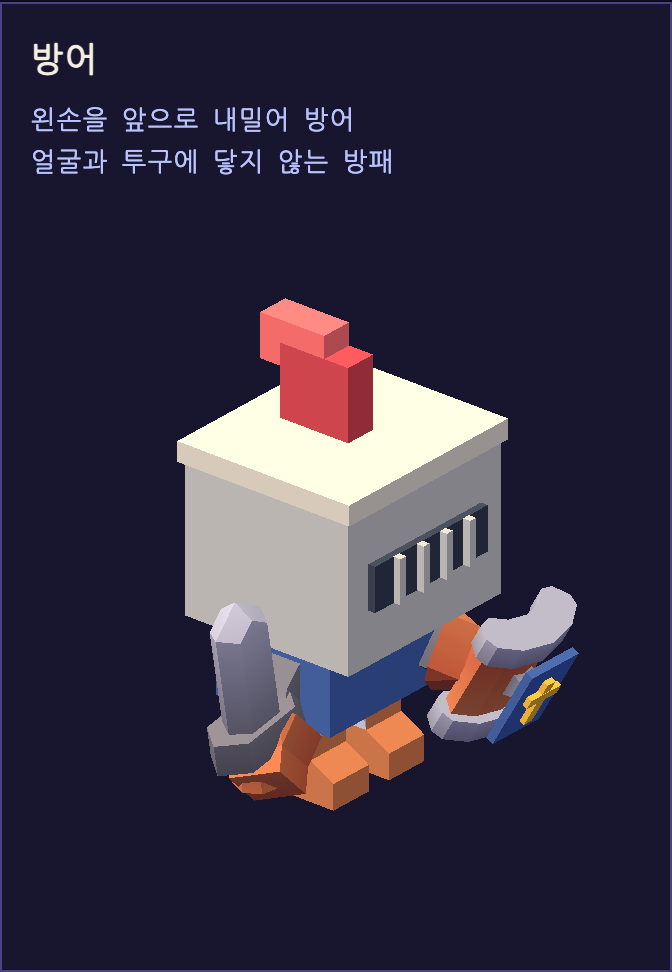
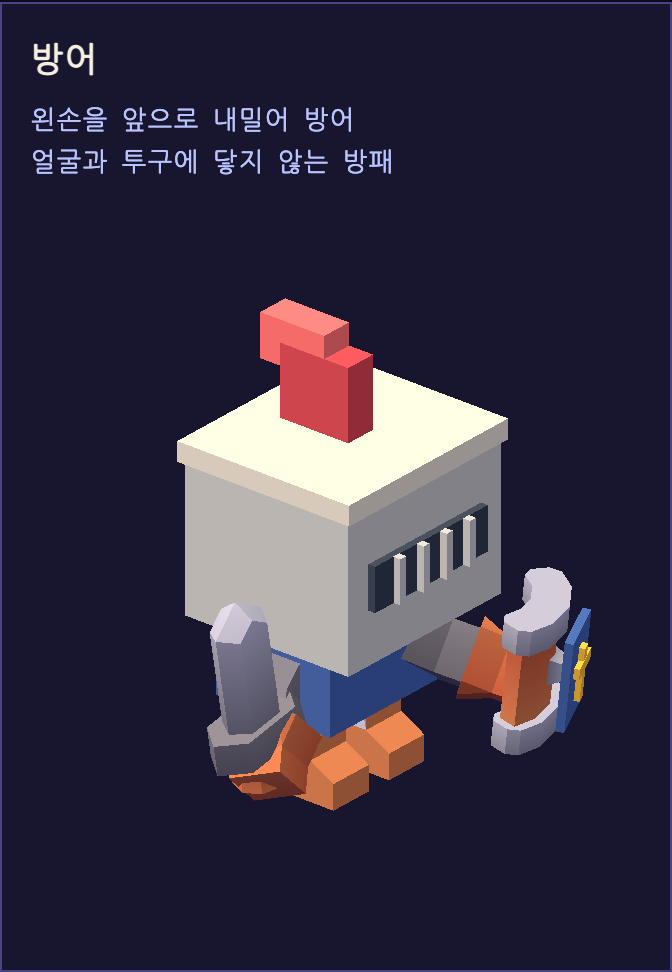
Keep the guard shield upright while reaching forward clear of the helmet

Changed region(s): [[0.5938, 0.5864, 0.875, 0.8025]]

diff --git a/tests/character-review.html b/tests/character-review.html
@@ -22,7 +22,7 @@ import * as THREE from 'three';
 import {loadAssets,hero,crewCharacter} from '../src/models.js';
 import {CREW} from '../src/data.js';
 await loadAssets();
-const heroes=[hero(),hero(),hero()];
+const heroes=[hero(),hero(),hero()],guardHome=heroes[2].bones['arm-left'].position.clone();
 const reviewTime=new URLSearchParams(location.search).get('time');if(reviewTime!==null)heroes[2].mixer.update(Number(reviewTime)-heroes[2].mixer.time);
 heroes[1].setEquipmentPose(1,0);heroes[2].setEquipmentPose(0,1);
 const coordinator=crewCharacter(CREW.find(p=>p.behavior==='encourage'),6);coordinator.setEncouragementPose(.3,true);
@@ -65,9 +65,10 @@ for(const yaw of [0,Math.PI/2,-Math.PI/2])for(let frame=0;frame<=60;frame++){
   }
  });
  const facing=new THREE.Vector3(0,0,1).applyQuaternion(a.model.getWorldQuaternion(new THREE.Quaternion())),ray=new THREE.Raycaster(a.visor.getWorldPosition(new THREE.Vector3()),facing);
- guardSamples.push({amount,time:a.mixer.time,firstHit,visor:visor.toArray(),hand:a.model.worldToLocal(a.shield.getWorldPosition(new THREE.Vector3())).toArray(),helmetIntersections:intersections,blocksFace:ray.intersectObject(a.shield,true).length>0,forward:new THREE.Vector3(0,0,1).applyQuaternion(a.shield.getWorldQuaternion(new THREE.Quaternion())).dot(facing),armScale:a.bones['arm-left'].scale.toArray()});
+ guardSamples.push({upright:new THREE.Vector3(0,1,0).applyQuaternion(a.shield.getWorldQuaternion(new THREE.Quaternion())).dot(new THREE.Vector3(0,1,0).applyQuaternion(a.model.getWorldQuaternion(new THREE.Quaternion()))),amount,time:a.mixer.time,firstHit,visor:visor.toArray(),hand:a.model.worldToLocal(a.shield.getWorldPosition(new THREE.Vector3())).toArray(),helmetIntersections:intersections,blocksFace:ray.intersectObject(a.shield,true).length>0,forward:new THREE.Vector3(0,0,1).applyQuaternion(a.shield.getWorldQuaternion(new THREE.Quaternion())).dot(facing),armScale:a.bones['arm-left'].scale.toArray()});
 }
-window.__CHARACTER_REVIEW__={reports,anchors,frames,mouthSamples,guardSamples,handAnchor,armScale,headVisible:animated.model.getObjectByName('head-mesh').visible,swordParent:animated.sword.parent.name,shieldParent:animated.shield.parent.name,female:coordinator.filename,phoneParent:coordinator.phone.parent.name,waves:coordinator.waves.visible};
+heroes[2].setEquipmentPose();const guardReset=heroes[2].bones['arm-left'].position.distanceTo(guardHome);
+window.__CHARACTER_REVIEW__={guardReset,reports,anchors,frames,mouthSamples,guardSamples,handAnchor,armScale,headVisible:animated.model.getObjectByName('head-mesh').visible,swordParent:animated.sword.parent.name,shieldParent:animated.shield.parent.name,female:coordinator.filename,phoneParent:coordinator.phone.parent.name,waves:coordinator.waves.visible};
 await document.fonts.ready;document.documentElement.dataset.reviewReady='true';
 </script>
 </html>

diff --git a/src/models.js b/src/models.js
@@ -204,7 +204,7 @@ export function hero() {
   const shield=prop('shield-rectangle',{h:.28,w:.25});shieldPivot.add(shield);shield.position.set(0,-.105,.055);
   box(shieldPivot,.14,.20,.018,'#4168bd',0,.035,.124);
   box(shieldPivot,.024,.12,.012,'#f5c542',0,.035,.139);box(shieldPivot,.09,.024,.012,'#f5c542',0,.055,.140);
-  const rest={right:bones['arm-right'].quaternion.clone(),left:bones['arm-left'].quaternion.clone()};
+  const rest={right:bones['arm-right'].quaternion.clone(),left:bones['arm-left'].quaternion.clone(),leftPosition:bones['arm-left'].position.clone()};
   // Keep the shield on the left side. The left hand reaches forward from the
   // shoulder; it never crosses to the visor's centerline.
   const guardAim=group(bones.torso,.30,-.025,.30),guardDirection=shieldPivot.position.clone().applyQuaternion(rest.left).normalize();
@@ -212,7 +212,9 @@ export function hero() {
   actor.shieldImpact=group(shieldPivot,0,.035,.15);actor.visor=group(head,0,.19,.252);
   actor.setEquipmentPose=(swing=0,guard=0)=>{
     bones['arm-right'].quaternion.copy(rest.right);bones['arm-right'].rotateY(.9*swing);bones['arm-right'].rotateZ(-.55*swing);
-    const arm=bones['arm-left'];arm.quaternion.copy(rest.left);
+    const arm=bones['arm-left'];arm.quaternion.copy(rest.left);arm.position.copy(rest.leftPosition);
+    // Protract the shoulder within the breastplate instead of pitching the shield down.
+    arm.position.z+=.075*guard;
     if(guard>0){
       actor.root.updateMatrixWorld(true);guardAim.getWorldPosition(guardTarget);arm.parent.worldToLocal(guardTarget).sub(arm.position).normalize();
       // Reach under the helmet rim before settling into the forward guard.
@@ -221,8 +223,8 @@ export function hero() {
     }
     // Aim the blade into the invasion lane while retaining the grip on the hand.
     faceInModelSpace(actor,swordPivot,1.65*swing,0,.18);
-    // Tip the upper rim away early, including while the idle torso/head sway.
-    faceInModelSpace(actor,shieldPivot,.52*Math.min(1,guard*2.5));
+    // Keep the shield upright; angle its inner edge forward to clear the helmet.
+    faceInModelSpace(actor,shieldPivot,.12*Math.min(1,guard*2.5),.45*guard);
   };
   actor.sword=swordPivot;actor.shield=shieldPivot;return actor;
 }

diff --git a/README.md b/README.md
@@ -58,7 +58,7 @@ Three.js, GLB, PNG 팔레트와 폰트를 모두 포함했습니다. 실행 중 
 - 모니터 4대와 노트북 화면은 원본 모델의 LCD 면에 붙어 실제 기울기와 크기를 따릅니다. 코드 입력·커서·테스트 출력·진행 막대·일정 목록을 상태에 맞게 갱신하며, 숨긴 탭과 모션 줄이기에서는 손과 화면 모두 멈춥니다.
 - 일정 독려 담당은 Mini Characters의 여성 `character-female-e`입니다. 개발실의 중앙 통로를 오가며 확성기를 들고 금색 말풍선과 소리 파장으로 진행 상황을 확인합니다. 말할 때는 입 위치를 기준으로 어깨와 확성기 각도를 계산하여 좁은 뒤쪽이 입 앞에 오도록 합니다. 손잡이 연결과 원래 팔 길이를 유지합니다. “패치 진행, 어디까지 왔죠?”, “커밋 준비됐나요?”, “테스트 끝나면 바로 공유!”를 순환하며, 정차 문구는 `CREW`에서 바꿉니다.
 - 용사의 투구는 원본 머리 메시를 가려 머리카락이 튀어나오지 않게 했습니다. 검·방패는 스킨의 손 위치에 연결하고 공격·방어 시 팔을 따라 움직입니다. 장비는 대기 자세에서도 바닥 위에 유지됩니다.
-- 브레스 방어 시 방패를 왼손에 둔 채 왼팔을 앞으로 내밉니다. 방패 윗부분을 먼저 전방으로 기울여 이동 중에도 투구와 닿지 않고 얼굴을 가리지 않게 했습니다. 불꽃의 도착점은 방패 앞면을 따라갑니다.
+- 브레스 방어 시 방패를 왼손에 둔 채 왼팔을 앞으로 내밉니다. 방패의 아래 기울기는 약 7도로 제한하고 왼팔을 더 전방으로 내밀어, 방패를 세운 채 투구와 간격을 확보합니다. 불꽃의 도착점은 방패 앞면을 따라갑니다.
 - 낮음·보통 등급은 Graveyard Kit의 흰 유령 모델을 사용합니다. 낮음은 작은 `꼬마 유령`, 보통은 `유령`이며 도감에서도 크기를 구분합니다. 원본의 `idle`·`walk`·`attack-melee-right` 애니메이션과 부유 이동을 사용하고, 장면·패널·이력·도감·활동 로그에 같은 이름과 모델을 반영합니다.
 - 근접 전투, 검 휘두르기, 넉백, 스파크, 드래곤 브레스와 방패 동작은 하나의 프레임 시간 기반 상태 머신으로 진행합니다. 별도의 전투 타이머가 백그라운드에서 계속 실행되지 않습니다.
 - 숨김 상태에서는 `requestAnimationFrame`을 취소하고 시뮬레이션 시간이 멈춥니다. 복귀 시 누적된 시간을 한꺼번에 진행하지 않습니다.

diff --git a/docs/validation.md b/docs/validation.md
@@ -167,3 +167,10 @@ Mini Characters의 여성 `character-female-e.glb`를 일곱 번째 직원인 **
 Chrome 모바일 터치 모사에서 실제 두 터치 포인트를 벌리기·오므리기·평행 이동·취소로 입력했습니다. 중간 지점 기준 확대, 100~300% 제한, 브라우저 전체 배율 1 유지, 잘못된 캐릭터 클릭 방지와 놓은 뒤 해상도 증가를 확인했습니다. 100%의 한 손가락 페이지 스크롤, 확대 후 한 손가락 드래그, 버튼·키보드·휠·모션 줄이기도 통과했습니다. 실제 iPhone Safari의 손가락 조작은 미검증입니다.
 
 [두 손가락으로 200% 확대 후 화면](previews/mobile-pinch-200.png).
+
+
+## 방어 방패를 수직에 가깝게 보완
+
+방어 시 방패의 아래쪽 기울기를 0.52rad(약 30도)에서 0.12rad(약 7도)로 줄였습니다. 왼팔을 원래 길이 그대로 조금 더 전방으로 내밀고, 방패의 안쪽 가장자리를 전방으로 돌려 투구와 간격을 확보합니다. 방어 종료 시 어깨 위치도 원래대로 복구합니다.
+
+세 방향의 전환·유지 동작 183개 자세에서 수직 기준 기울기 10도 이하, 투구 삼각형 교차 0, 얼굴 가림 0, 왼손 전방 유지·팔 길이 유지·대기 위치 복귀를 검사합니다. 기존 검·방패 손잡이 결합 60프레임과 확성기 입 정렬 90프레임 검사도 유지합니다. 정면·측면 렌더로 방패가 서 있는 모습을 확인했습니다.
